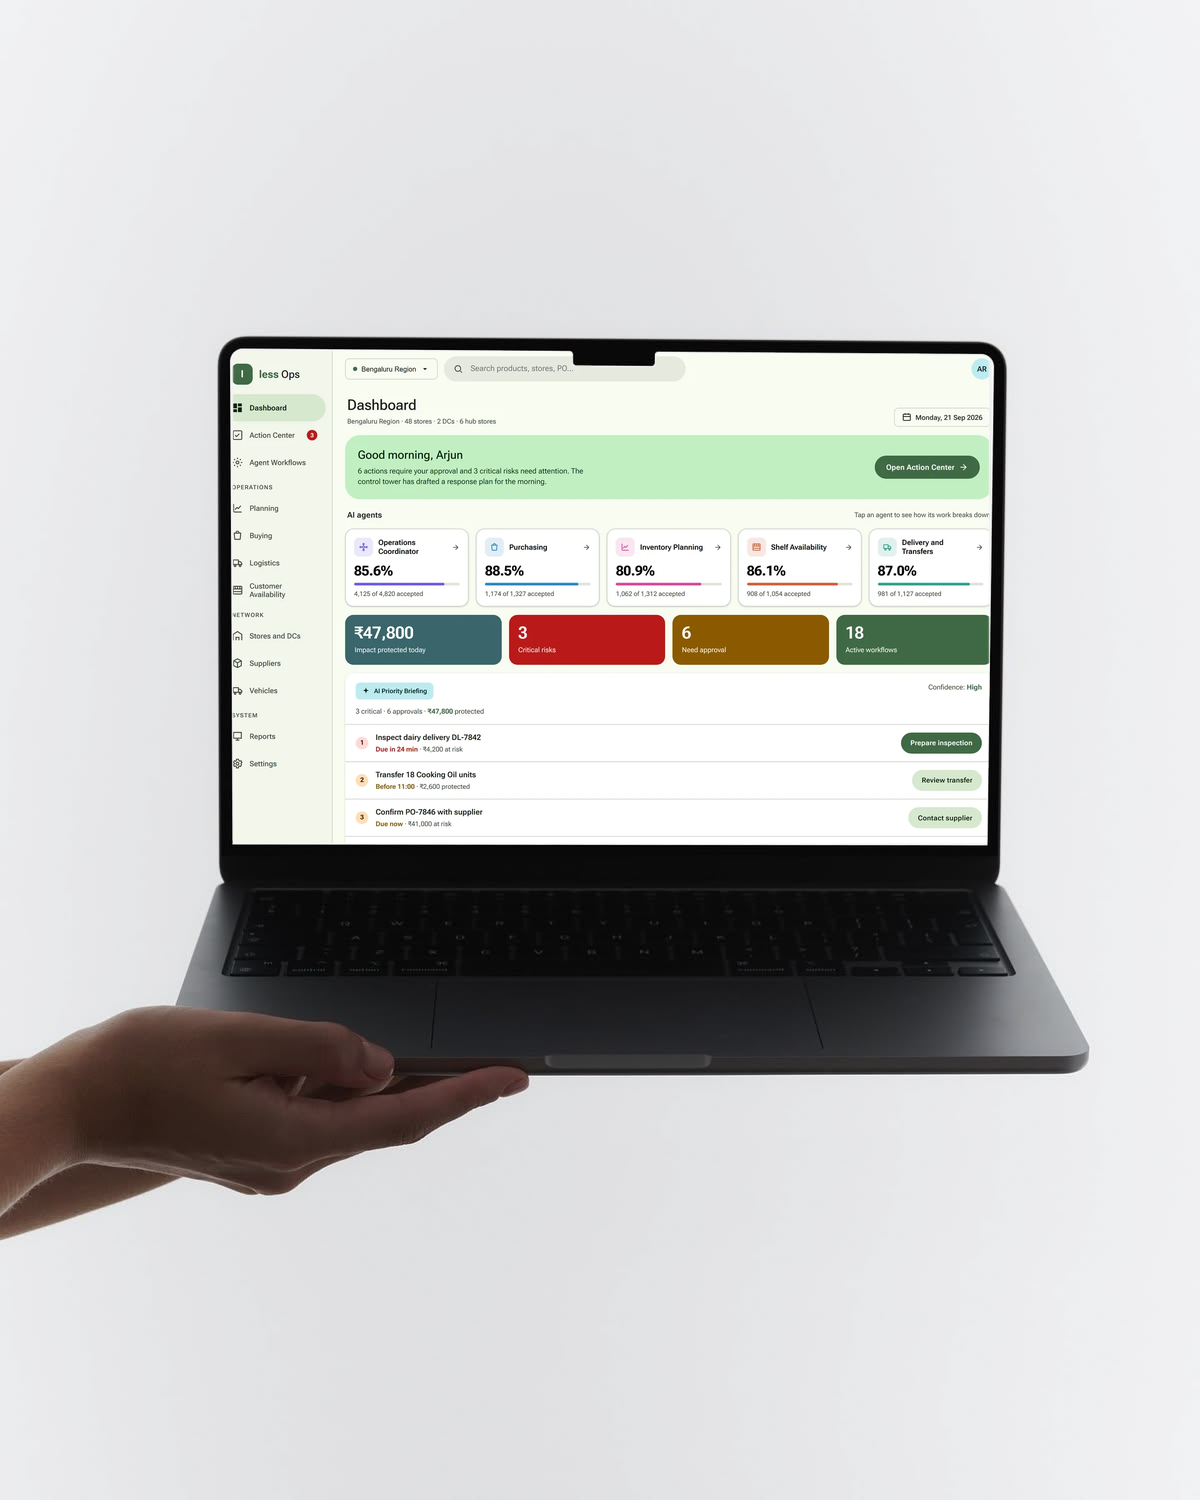
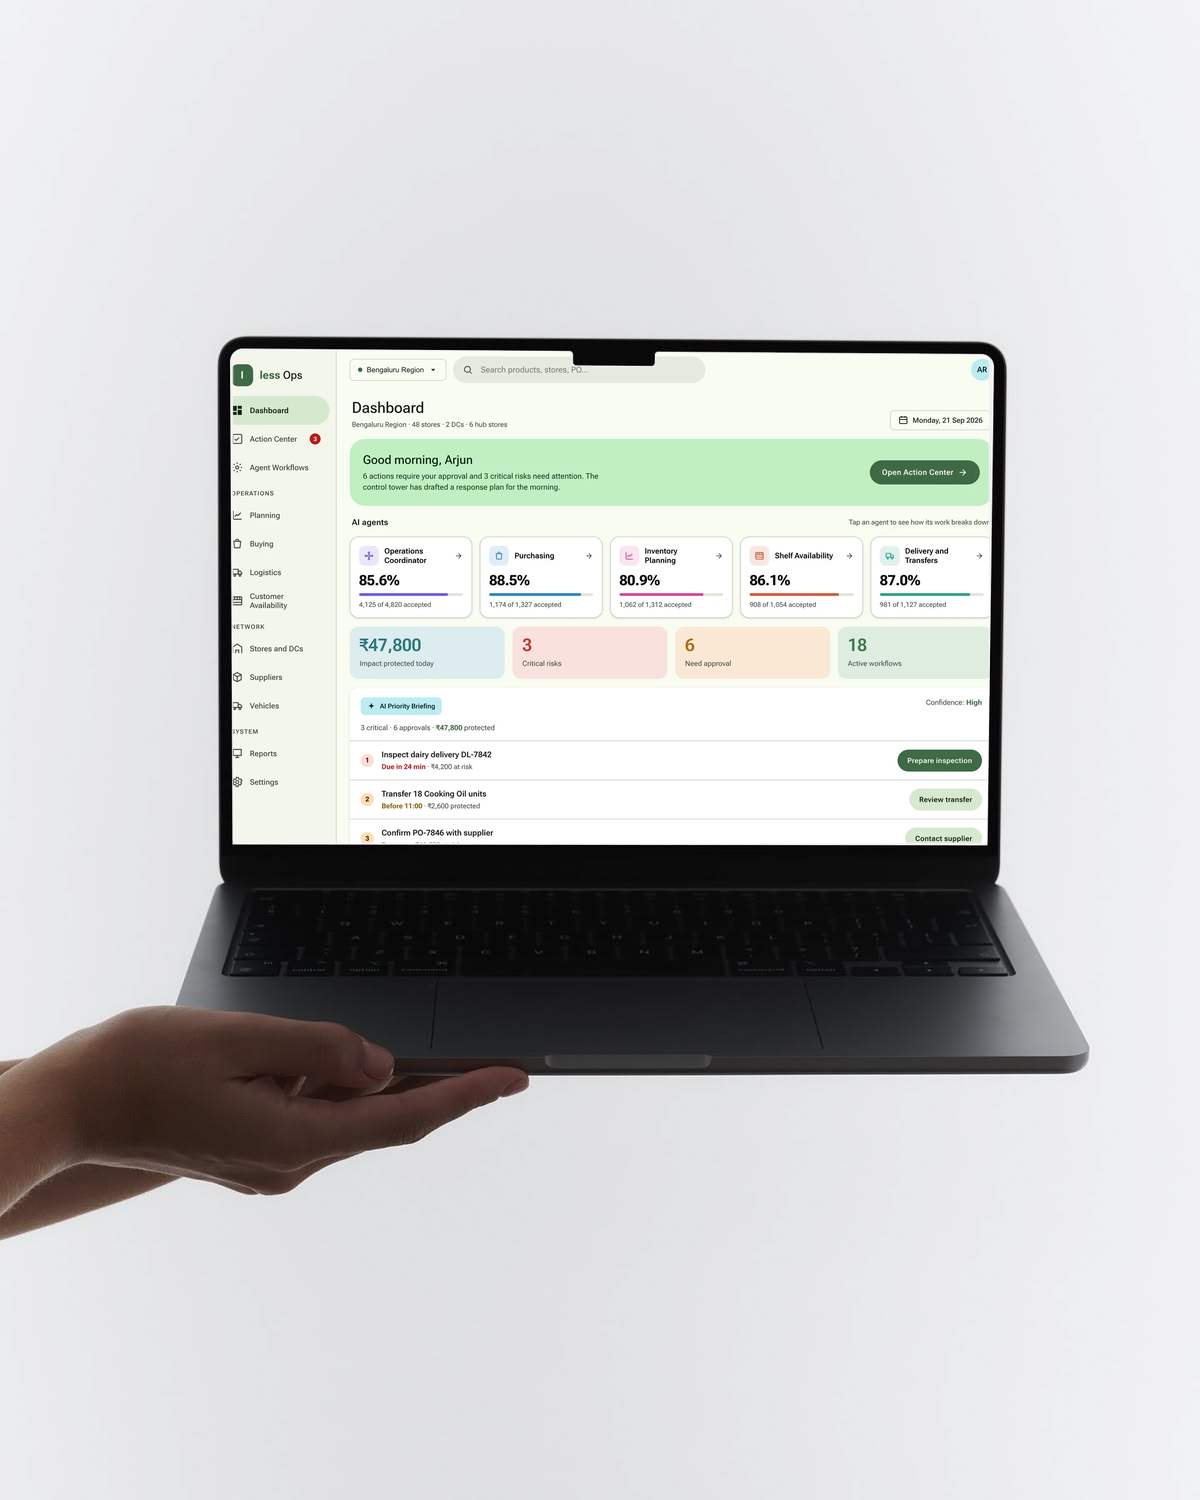
Put the fresh dashboard on the less Ops card's laptop
The card was composited from the earlier dashboard capture; it now shows
the one taken from the live prototype, through the same screen mask and
the same padded 4:3 framing.

Changed region(s): [[0.185, 0.2453, 0.8325, 0.5827]]

diff --git a/script.js b/script.js
@@ -273,7 +273,7 @@ const WORK = [
     // Decoded from the case study's own hero mockup and letterboxed onto the
     // artwork's background, so the laptop keeps its full width — the same
     // reason the insure-tech plate is padded rather than cover-cropped.
-    thumb: "media/less-ops-card.webp?v=3",
+    thumb: "media/less-ops-card.webp?v=4",
     // Opens in a tab rather than the portal: this one is a deployed site, not
     // a study embedded in the page, and it carries its own navigation.
     href: "https://less-ops.vercel.app/",

diff --git a/index.html b/index.html
@@ -368,6 +368,6 @@
   </footer>
 
   <script src="hand.js?v=254"></script>
-  <script src="script.js?v=407"></script>
+  <script src="script.js?v=408"></script>
 </body>
 </html>
